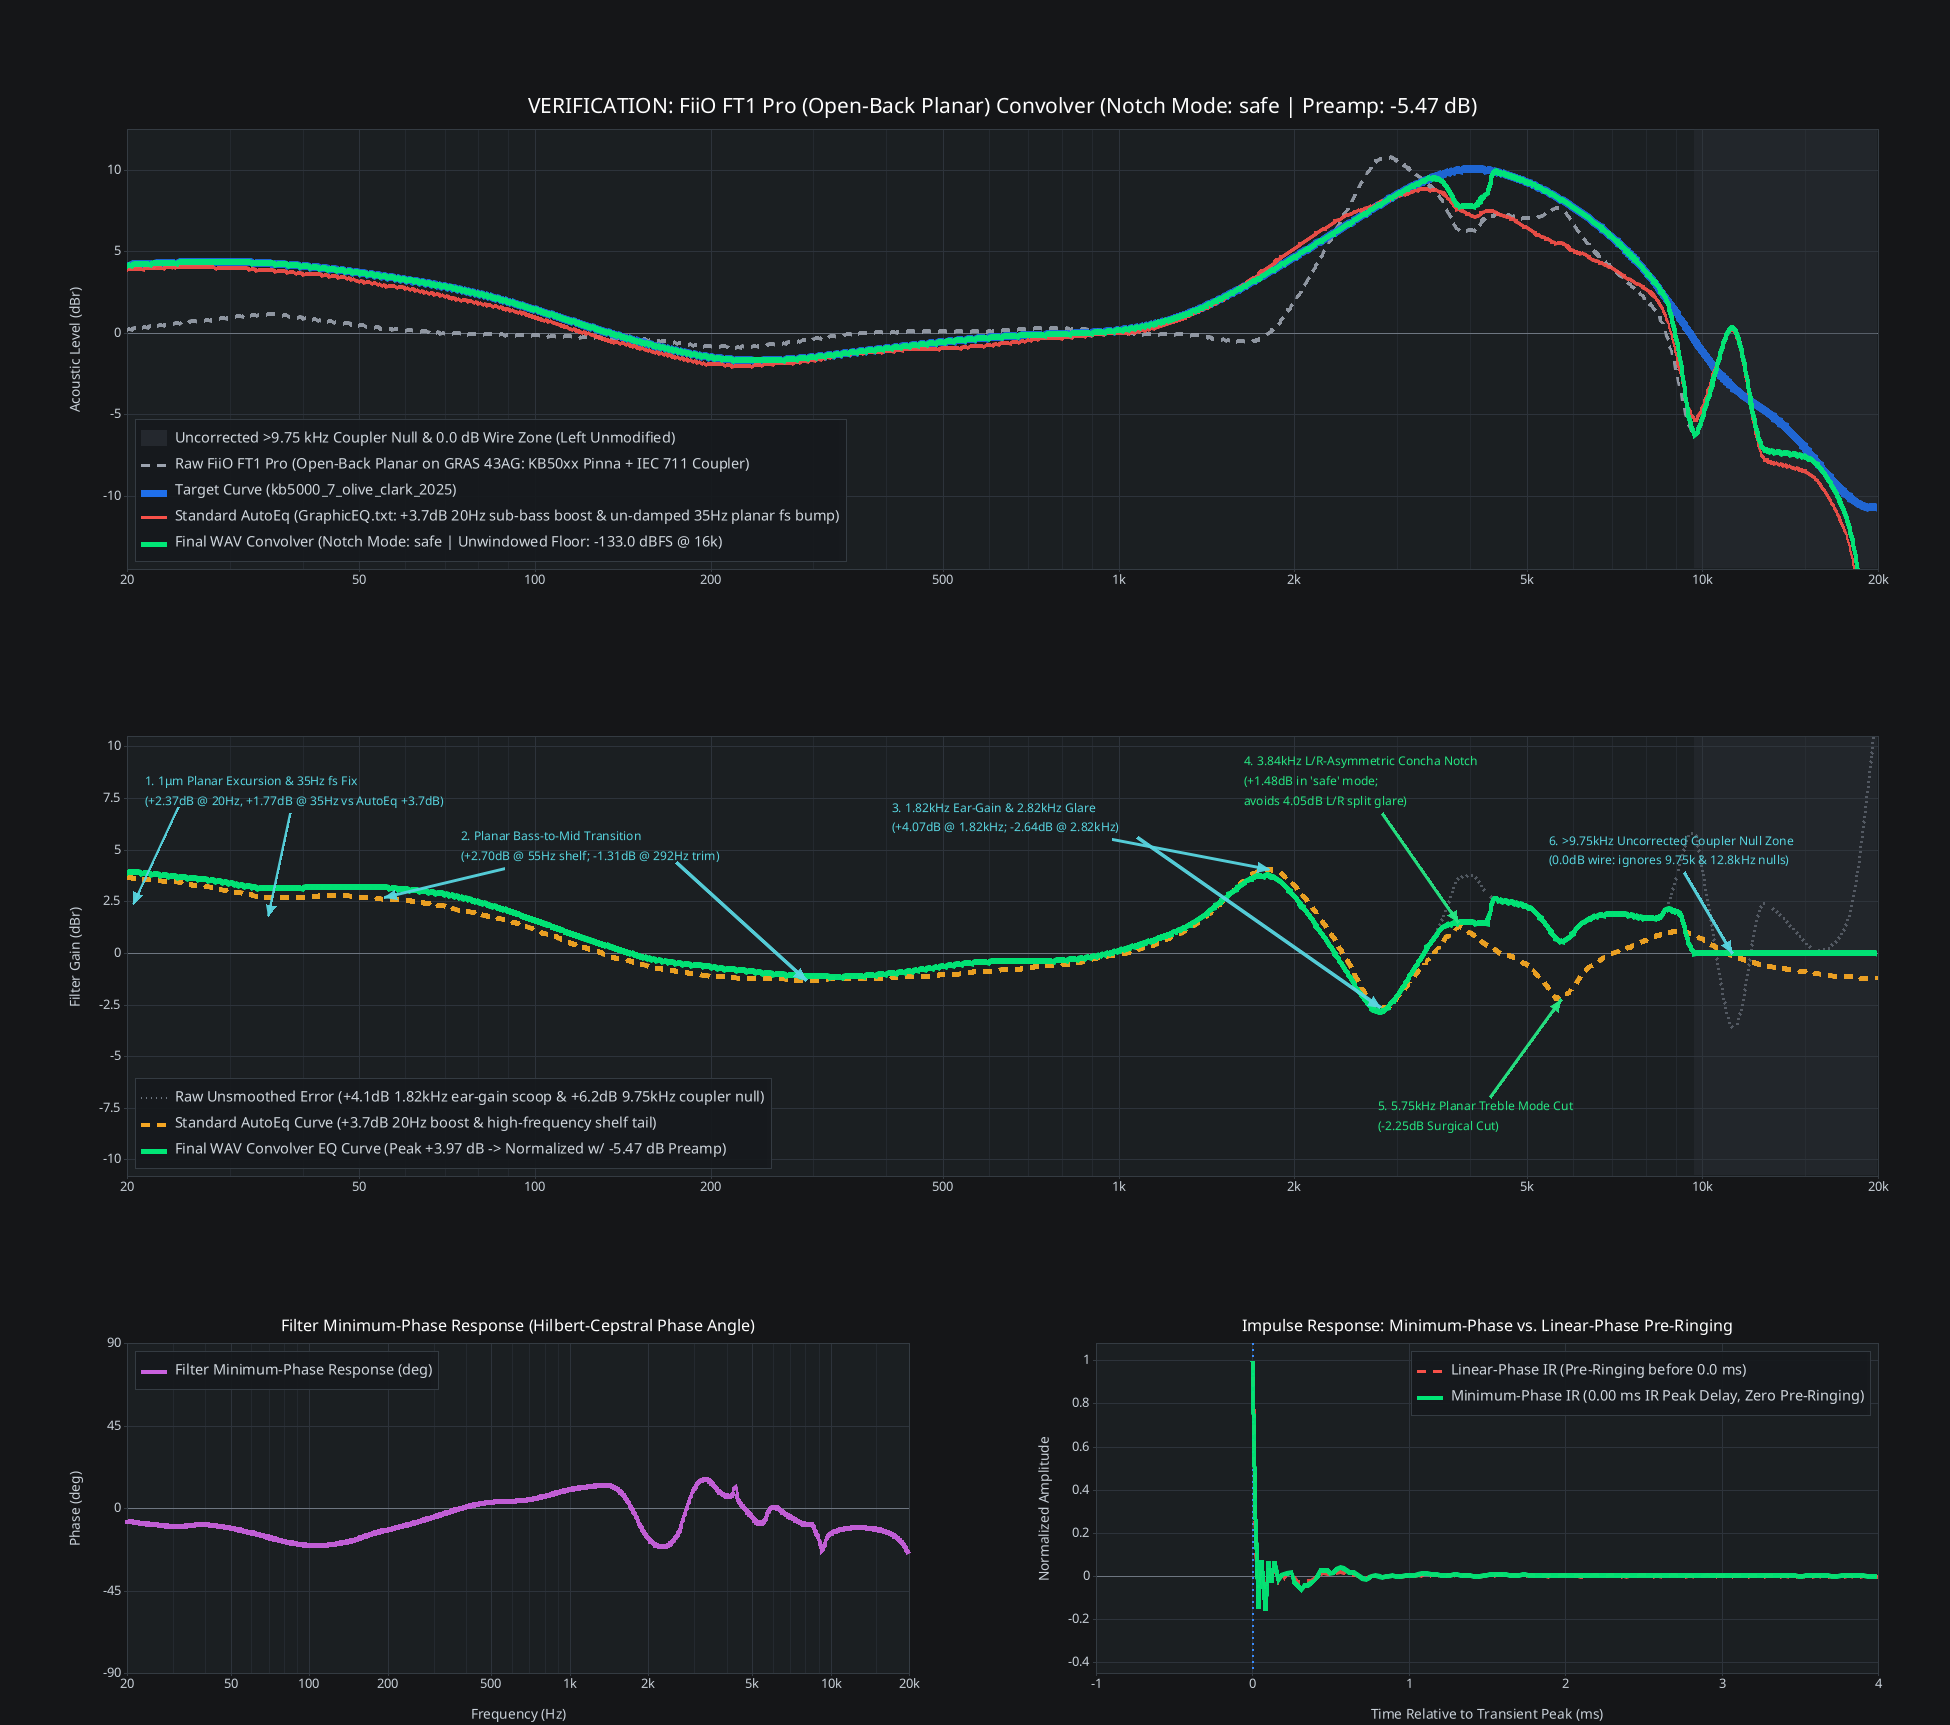
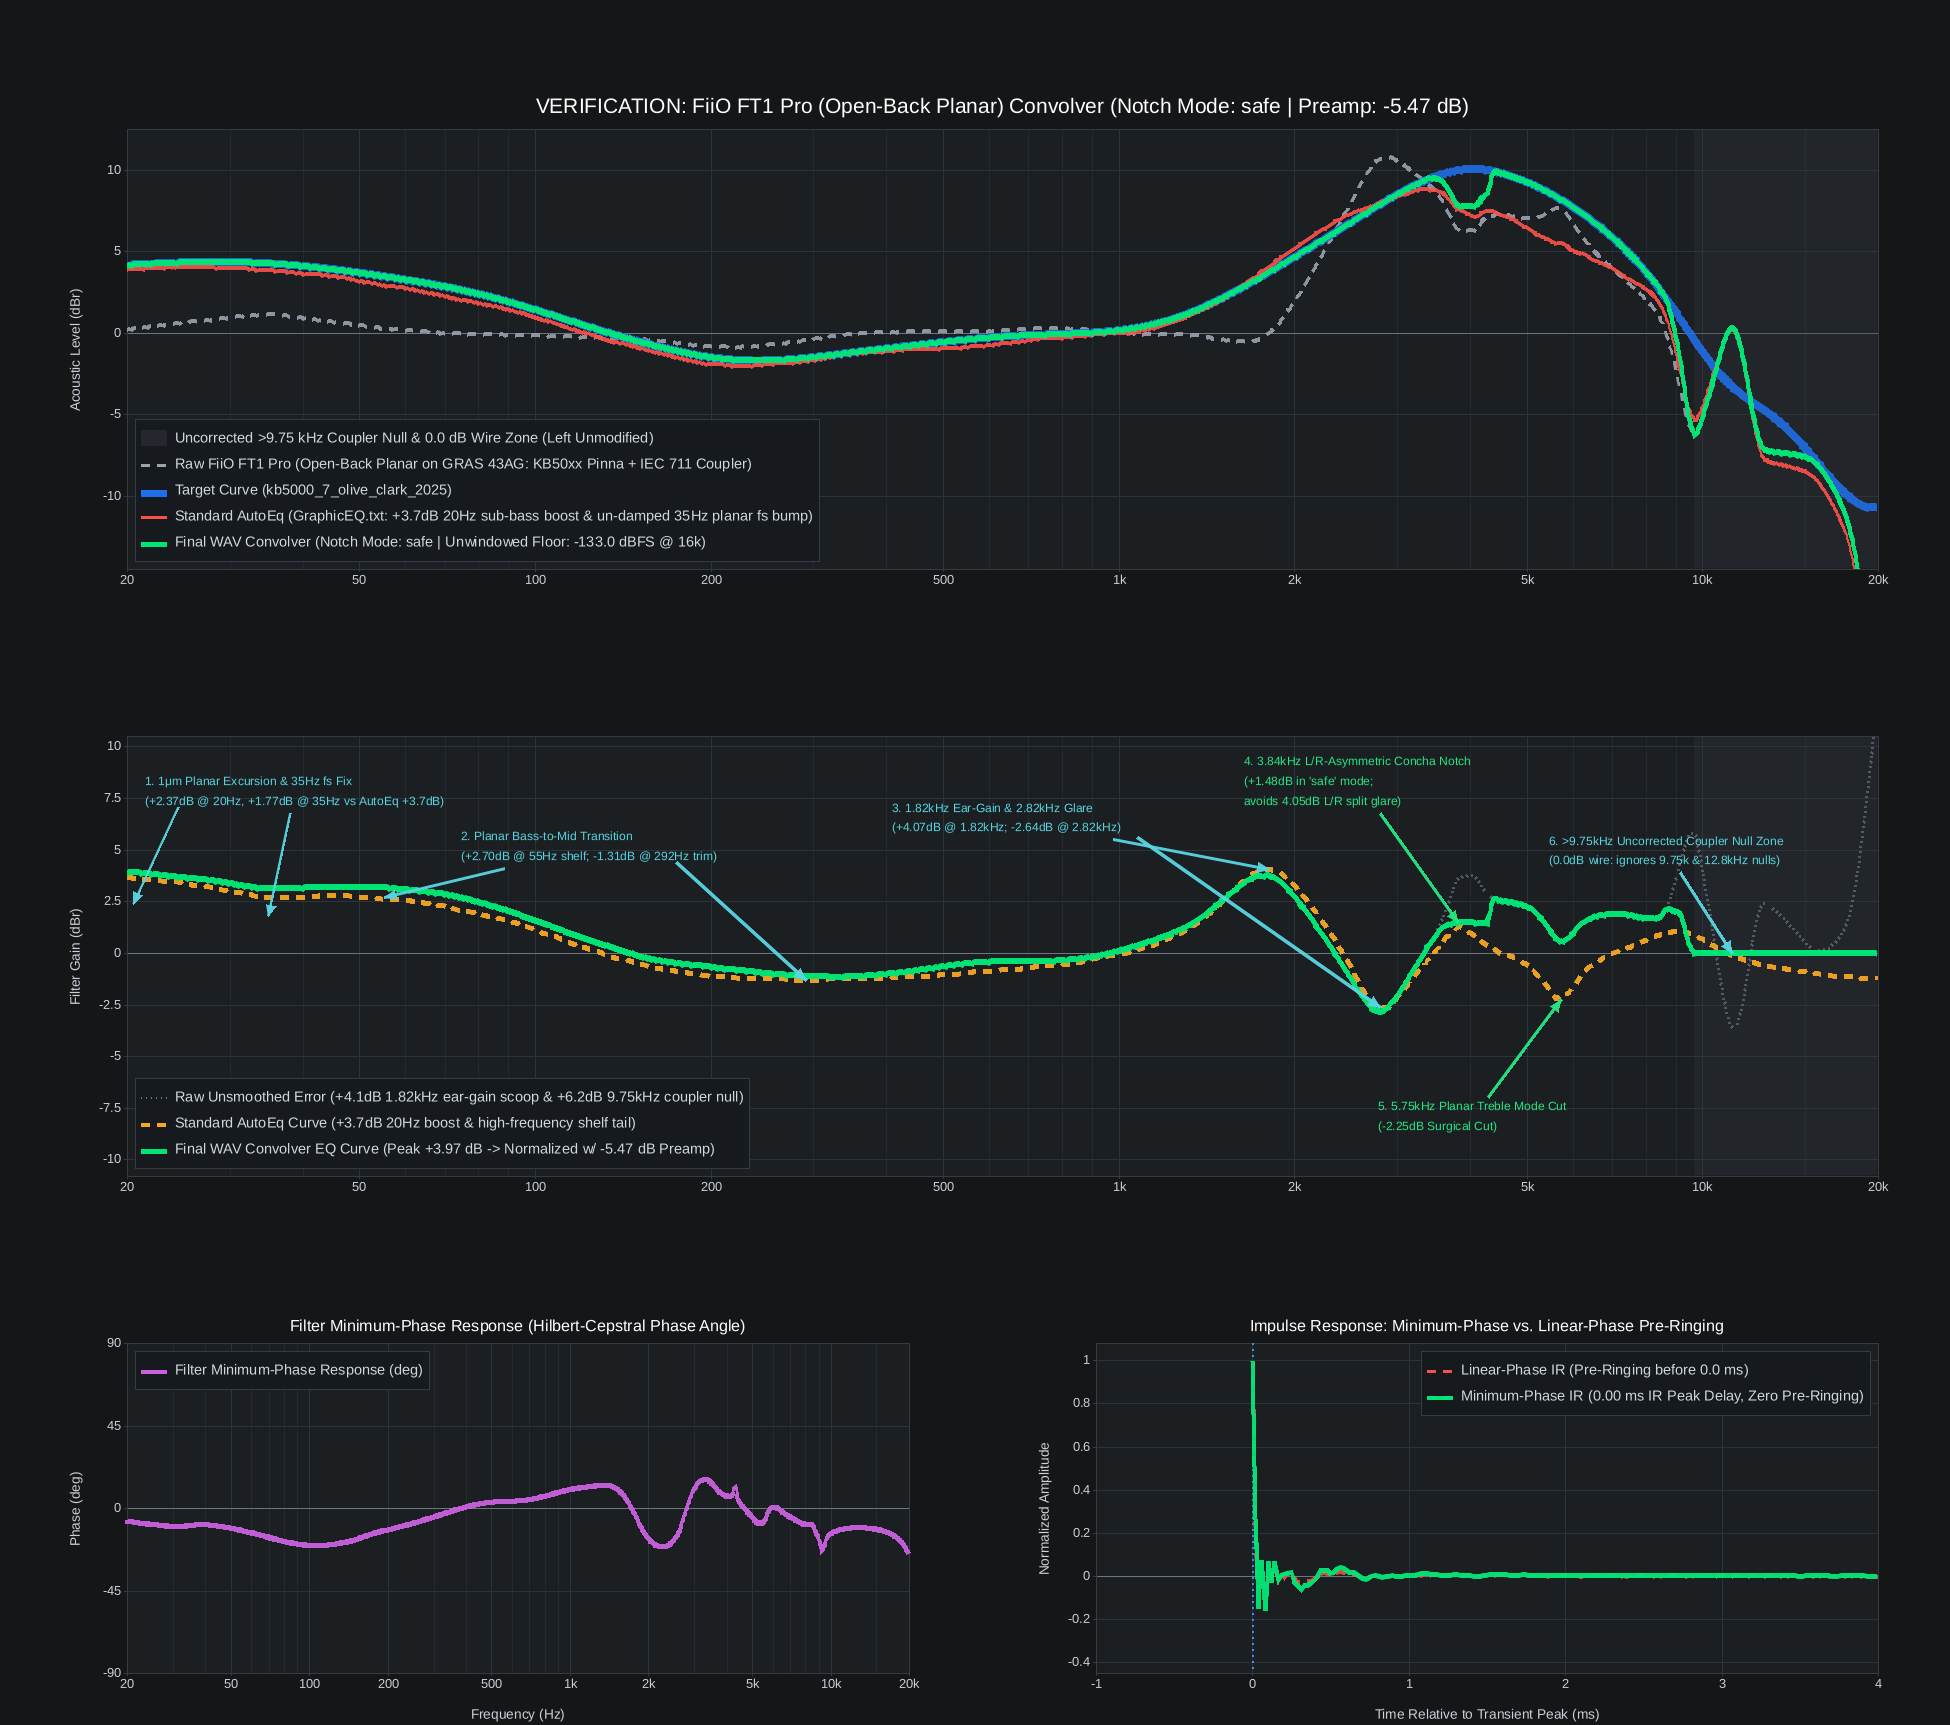
fix(plot): switch to Liberation Sans to resolve clipped uppercase J glyph and re-render plots

diff --git a/src/plot.rs b/src/plot.rs
@@ -33,6 +33,11 @@ pub const FIG_W: u32 = 1950;
 /// Figure height in pixels.
 pub const FIG_H: u32 = 1725;
 
+/// Font family used across all panels. "Liberation Sans" is preferred on Linux
+/// because DejaVu Sans has a negative side-bearing/descender on uppercase Latin 'J'
+/// that plotters 0.3's ttf rasterizer clips at the top stem.
+pub const FONT_FAMILY: &str = "Liberation Sans";
+
 /// Space above the first panel, for nothing but margin.
 const M_TOP: u32 = 95;
 /// Plot-area left edge; a panel's y labels occupy the 62 px to its left.
@@ -446,7 +451,7 @@ pub fn arrow_head_points(
 /// y label bottom-to-top, which is the 270-degree variant.
 fn label(band: &BitmapArea<'_>, x: i32, y: i32, spec: &TextSpec<'_>) -> PlotResult {
     use plotters::prelude::*;
-    let style = ("sans-serif", f64::from(spec.size))
+    let style = (FONT_FAMILY, f64::from(spec.size))
         .into_font()
         .color(&spec.color.color())
         .pos(spec.anchor);
@@ -478,7 +483,7 @@ fn solid(c: Rgb) -> plotters::style::ShapeStyle {
 /// The rendered width of a string, measured on the active backend.
 fn text_w(band: &BitmapArea<'_>, text: &str, size: u32) -> Plot<i32> {
     use plotters::prelude::*;
-    let style = ("sans-serif", f64::from(size))
+    let style = (FONT_FAMILY, f64::from(size))
         .into_font()
         .color(&TEXT.color());
     let (w, _) = band.estimate_text_size(text, &style).map_err(dv)?;
@@ -1057,7 +1062,7 @@ pub fn callout_tail_point(
     if lines.is_empty() || centres.is_empty() {
         return xytext;
     }
-    let font = ("sans-serif", ANNOT_FONT).into_font();
+    let font = (FONT_FAMILY, ANNOT_FONT).into_font();
     let mut text_w_px = 10.0f64;
     let mut font_h_px = 15.0f64;
     for l in lines {
@@ -1200,7 +1205,10 @@ macro_rules! annotations {
                     .draw_series(vec![Text::new(
                         line.to_string(),
                         (a.xytext.0, ty),
-                        ("sans-serif", $crate::plot::ANNOT_FONT)
+                        (
+                            $crate::plot::FONT_FAMILY,
+                            $crate::plot::ANNOT_FONT,
+                        )
                             .into_font()
                             .color(&color.color()),
                     )])
